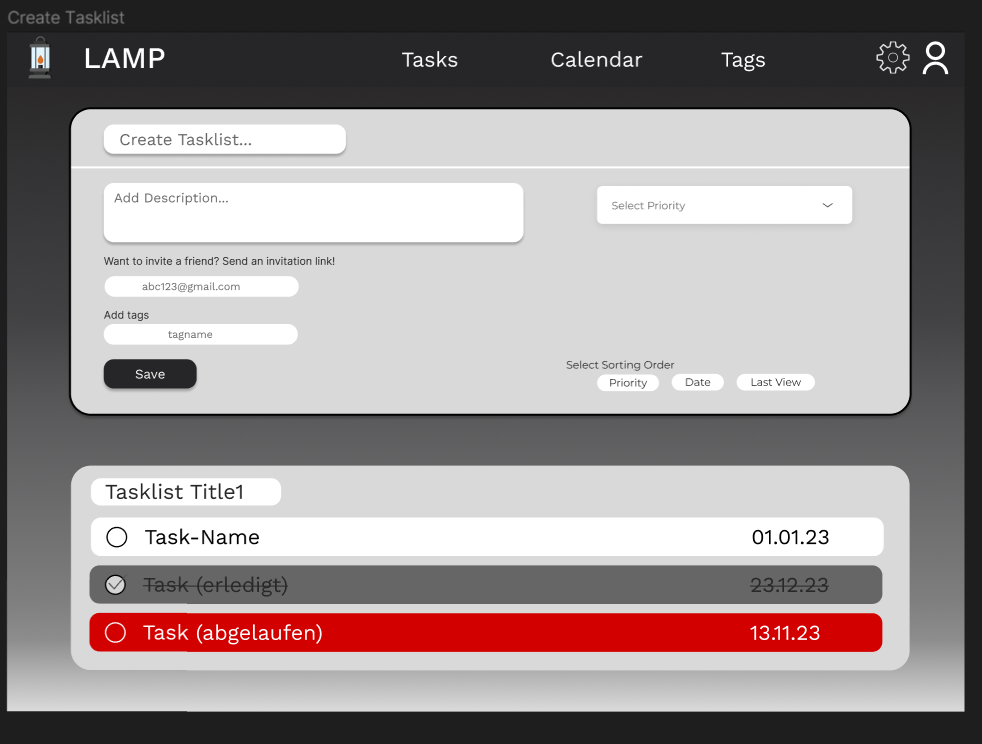
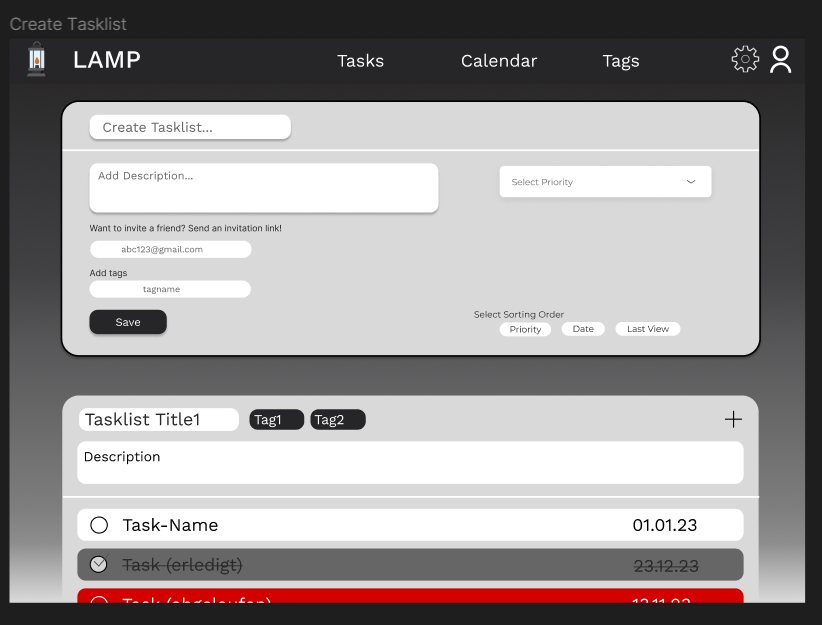
added workflow of tasklist, new tasklist view design, added gitignore

diff --git a/README.md b/README.md
@@ -98,6 +98,13 @@ Philip Raab: Task erstellen/ändern
 ![Create Task List Dropdown](./pictures/GUIMockups/CreateTaskListOnMainPageDropdown.png)
 
 #### 3.3.2. Workflow
+Beim Erstellen einer Tasklist (= Liste an Tasks) muss man einen Titel angeben. Das Hinzufügen einer Beschreibung und Tags, das Auswählen einer Priorität und Sortierordnung und das Einladen von Kollaboratoren ist ebenfalls möglich. Falls man dies allerdings nicht macht, wird eine Standardoption ausgewählt.
+
+Das Hinzufügen von Kollaboratoren funktioniert über einen Einladungslink per E-Mail. Das Auswählen der Priorität funktioniert über ein Dropdown, und die Sorting Order sind klickbare Buttons. Das Hinzufügen von Tags funktioniert über den Namen des Tags, den man entweder bereits zuvor erstellt hat oder dadurch jetzt erstellt.
+
+Beim Ansehen einer Tasklist werden die einzelnen Teile angezeigt. Zudem kann man über ein "+" Tasks hinzufügen. Beim auflisten der Tasks werden jene rot markiert, deren Datum bereits war und jene grau markiert und durchgestrichen, die bereits erledigt wurden. Zudem werden die Tasks gelb markiert, deren Ablaufdatum bald ist.
+
+Zu einer genaueren Ansicht kommt man, sobald man auf eine Task drückt.
 
 ### 3.4. Task erstellen/ändern
 
